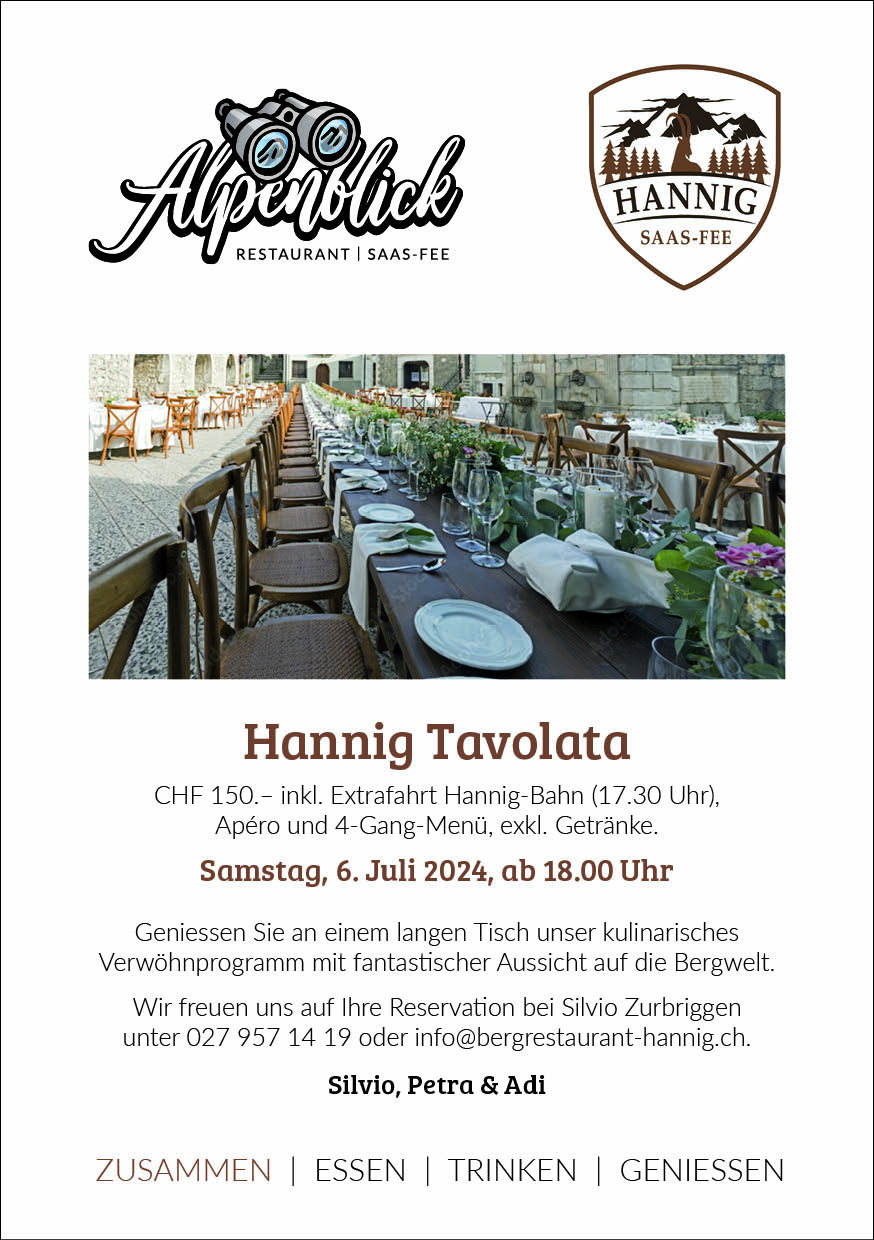
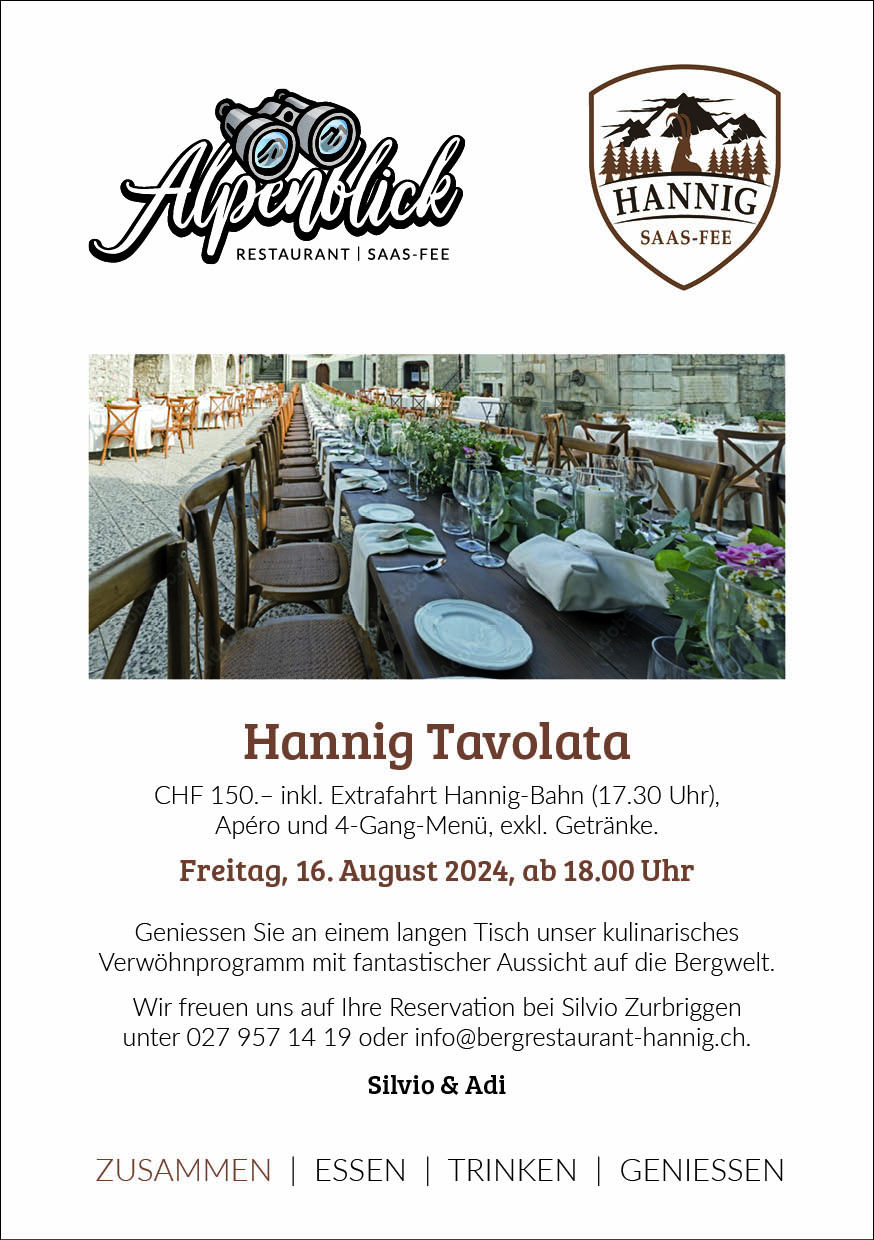
update homepage

Changed region(s): [[0.2162, 0.6742, 0.8032, 0.7355], [0.3707, 0.8581, 0.6178, 0.8887]]

diff --git a/content/_index.md b/content/_index.md
@@ -24,8 +24,14 @@ Normaler Text zwischen Linien<br>
 
 ---
 
-**Start Sommersaison**<br>
-Wir freuen uns sehr, Sie nach der Zwischensaison ab **Samstag, 08. Juni 2024** wieder bei uns im Restaurant Alpenblick begrüssen und verwöhnen zu dürfen!
+**Geschlossene Gesellschaft am Samstag, 3. August 2024**<br>
+Gerne bedienen wir euch am Sonntag, 4. August 2024 wieder wie gewohnt.
+
+**Closed society on Saturday, 3 August 2024**<br>
+We will be happy to serve you again as usual on Sunday, 4 August 2024.
+
+**Société fermée le samedi 3 août 2024**<br>
+C'est avec plaisir que nous vous servirons à nouveau le dimanche 4 août 2024 comme d'habitude.
 
 ---
 
@@ -57,7 +63,8 @@ Am **Donnerstag, XX. Juni 2024** freuen wir uns, mit euch in die Sommersaison 20
 
 
 **Start Sommersaison**<br>
-Wir freuen uns sehr, Sie nach der Zwischensaison ab **XXX, XX. Juni 2024** (bei schönem Wetter bereits am **XXX, XX. Juni 2024**) wieder bei uns im Restaurant Alpenblick begrüssen und verwöhnen zu dürfen!
+Wir freuen uns sehr, Sie nach der Zwischensaison ab **Samstag, 08. Juni 2024** wieder bei uns im Restaurant Alpenblick begrüssen und verwöhnen zu dürfen!
+
 
 
 
@@ -103,12 +110,9 @@ Unser kleines, aber feines <a href="images/Alpenblick_Flyer_Uebernachten_2022.jp
 
 ## Aktuelle Anlässe
 * Jeden Freitag: <a href="images/Alpenblick_Flyer_Freitag_Abend_Menu_2020.jpg" target="_blank"> Freitag Abend Überraschungsmenu</a>
-* Samstag, 22. Juni 2024: <a href="images/Alpenblick_Flyer_Vollmond_Raclette_Plausch.jpg" target="_blank"> Vollmond Raclette Plausch</a>
-* Sonntag, 23. Juni 2024: <a href="images/Alpenblick_Flyer_Jubiläums-Apero.jpg" target="_blank"> Alpenblick Jubiläums-Apéro</a>
-* Samstag, 06. Juli 2024: <a href="images/Alpenblick_Flyer_Hannig_Tavolata.jpg" target="_blank"> Hannig Tavolata</a> (mit dem Bergrestaurant Hannig)
-* Sonntag, 21. Juli 2024: <a href="images/Alpenblick_Flyer_Ziegenfest.jpg" target="_blank"> Ziegenfest Saas--Fee</a>
 * Donnerstag, 01. August 2024: <a href="images/Alpenblick_Flyer_1_August.jpg" target="_blank"> 1.-August-BBQ</a>
 * Sonntag, 11. August 2024: Alpenblick Jubiläums-Brunch
+* Freitag, 16. August 2024: <a href="images/Alpenblick_Flyer_Hannig_Tavolata.jpg" target="_blank"> Hannig Tavolata</a> (mit dem Bergrestaurant Hannig)
 * Montag, 19. August 2024: <a href="images/Alpenblick_Flyer_Vollmond_Raclette_Plausch.jpg" target="_blank"> Vollmond Raclette Plausch</a>
 * Sonntag, 08. September 2024: <a href="https://www.saas-fee.ch/de/events/top-events-im-sommer/nostalgische-genussmeile" target="_blank"> Nostalgische Genussmeile Saas-Fee</a>
 * Mittwoch, 18. September 2024: <a href="images/Alpenblick_Flyer_Vollmond_Raclette_Plausch.jpg" target="_blank"> Vollmond Raclette Plausch</a>
@@ -121,6 +125,8 @@ Unser kleines, aber feines <a href="images/Alpenblick_Flyer_Uebernachten_2022.jp
 <!-- * Samstag, 24. Dezember 2022: <a href="images/Alpenblick_Flyer_Weihnachtsmenu.jpg" target="_blank"> Weihnachtsmenu</a> -->
 <!-- * Montag, 25. Dezember 2023: <a href="images/Alpenblick_Flyer_Christmas_Fondue.jpg" target="_blank"> Christmas Fondue</a> -->
 <!-- * Sonntag, 31. März 2024: <a href="images/Alpenblick_Flyer_Ostern.jpg" target="_blank"> Alpenblick Ostereiersuche</a> -->
+<!-- * Samstag, 22. Juni 2024: <a href="images/Alpenblick_Flyer_Vollmond_Raclette_Plausch.jpg" target="_blank"> Vollmond Raclette Plausch</a> -->
+<!-- * Sonntag, 21. Juli 2024: <a href="images/Alpenblick_Flyer_Ziegenfest.jpg" target="_blank"> Ziegenfest Saas--Fee</a> -->
 
 
 ## Erwähnungen in Blogbeiträgen
